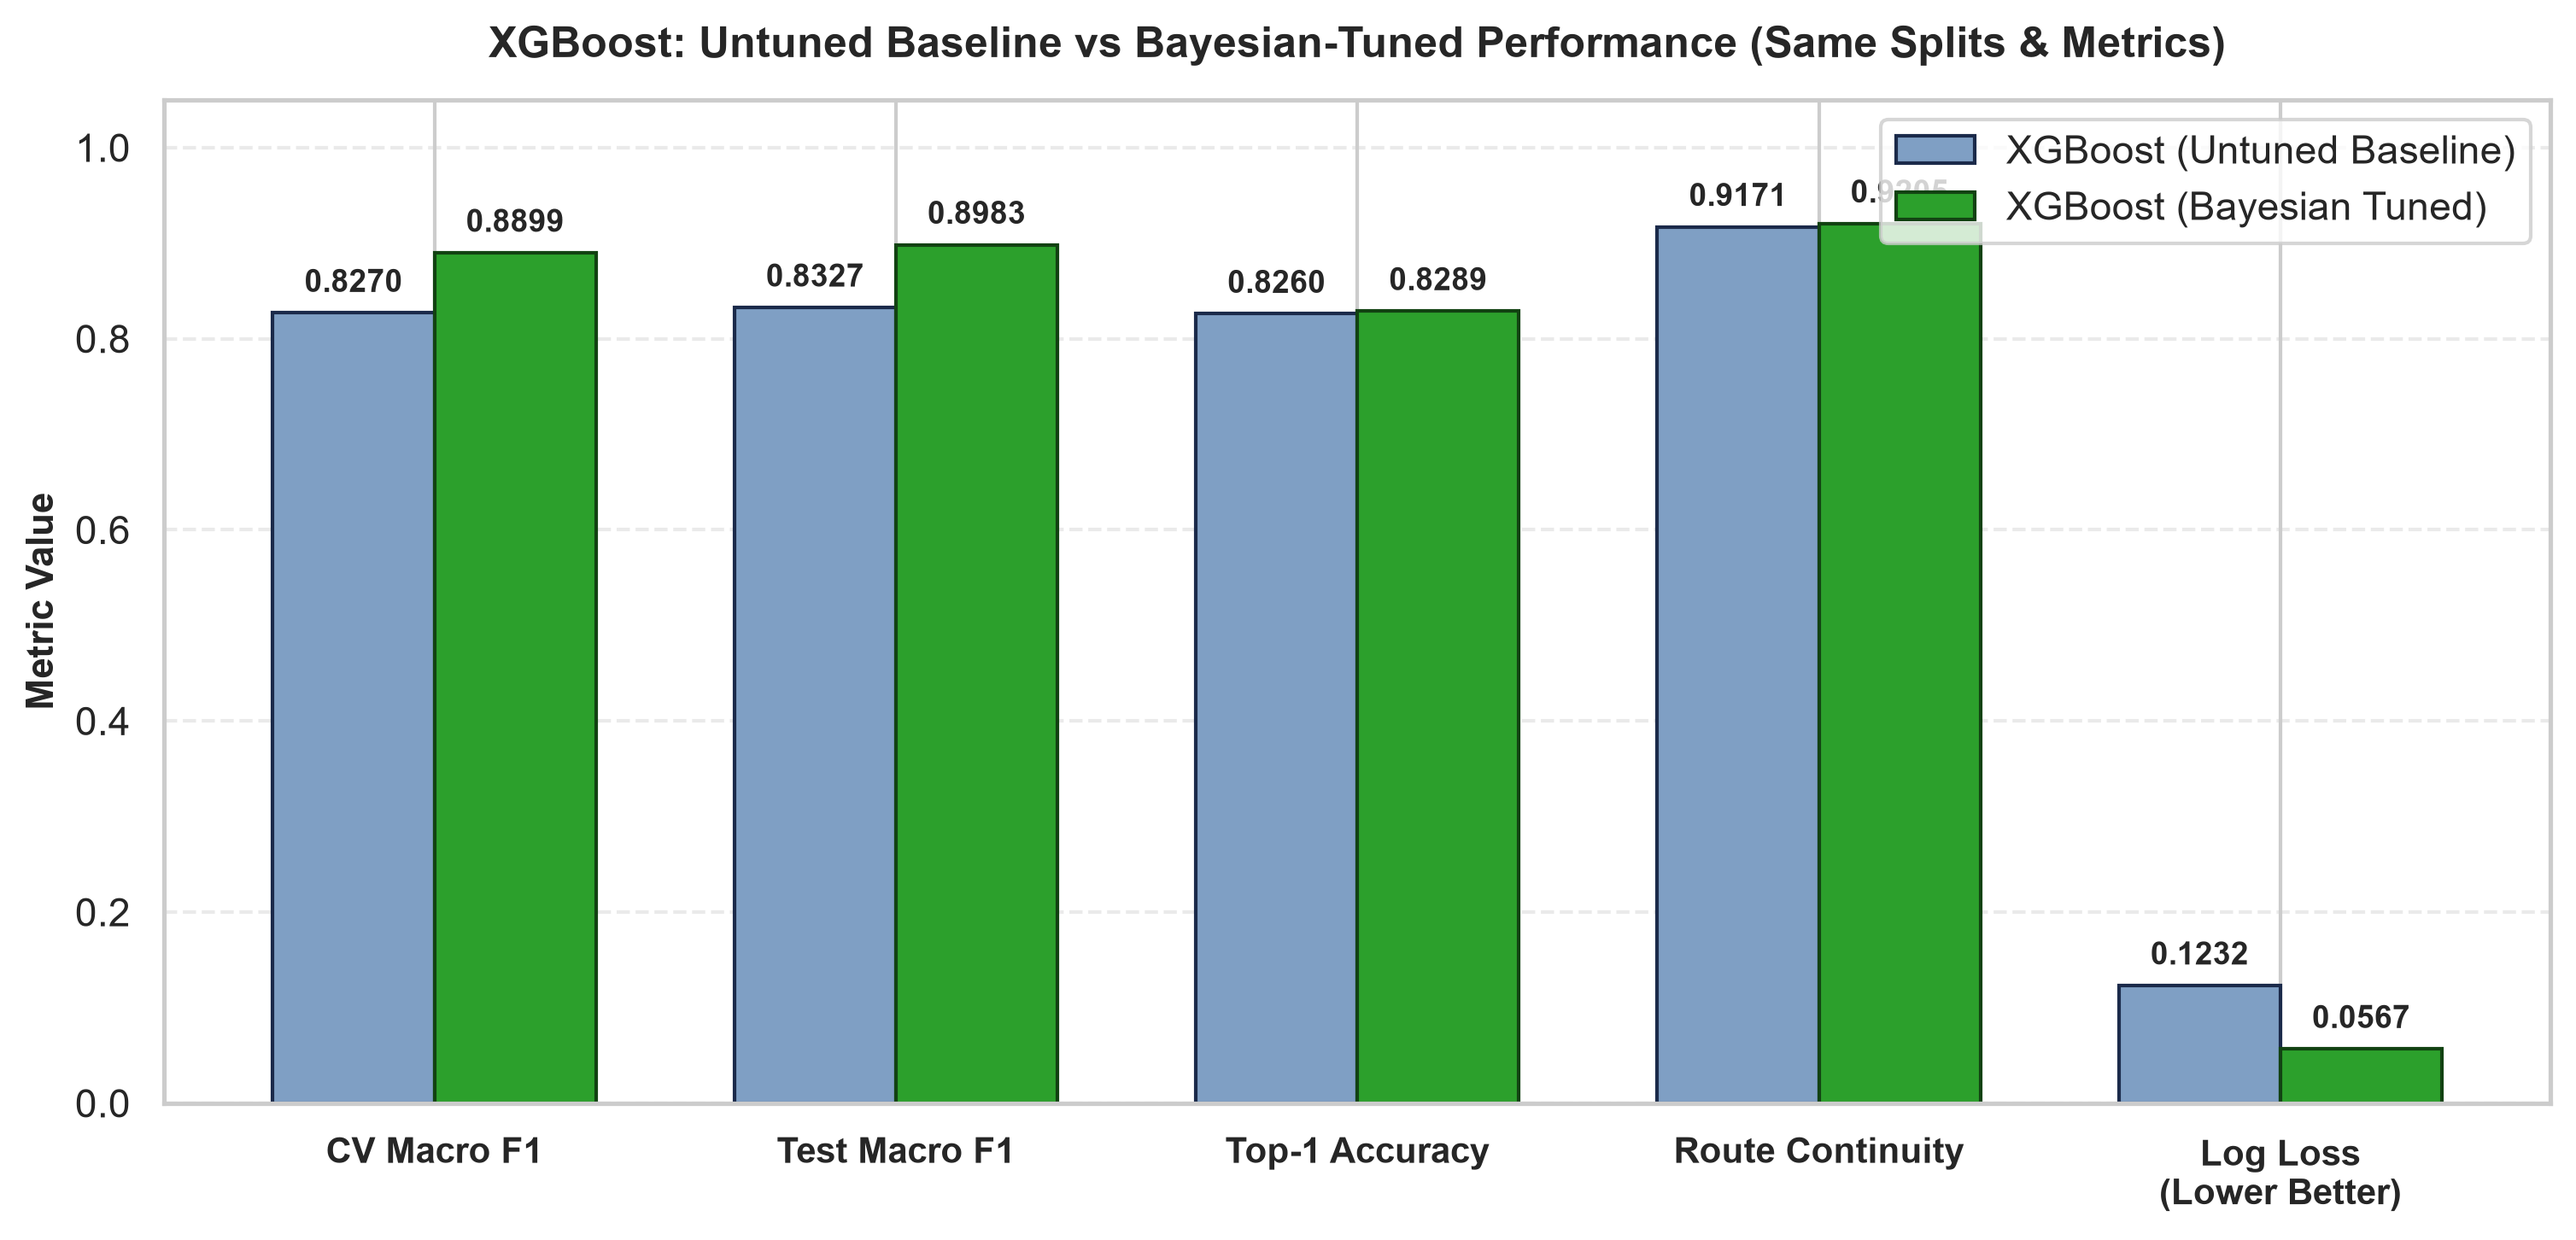
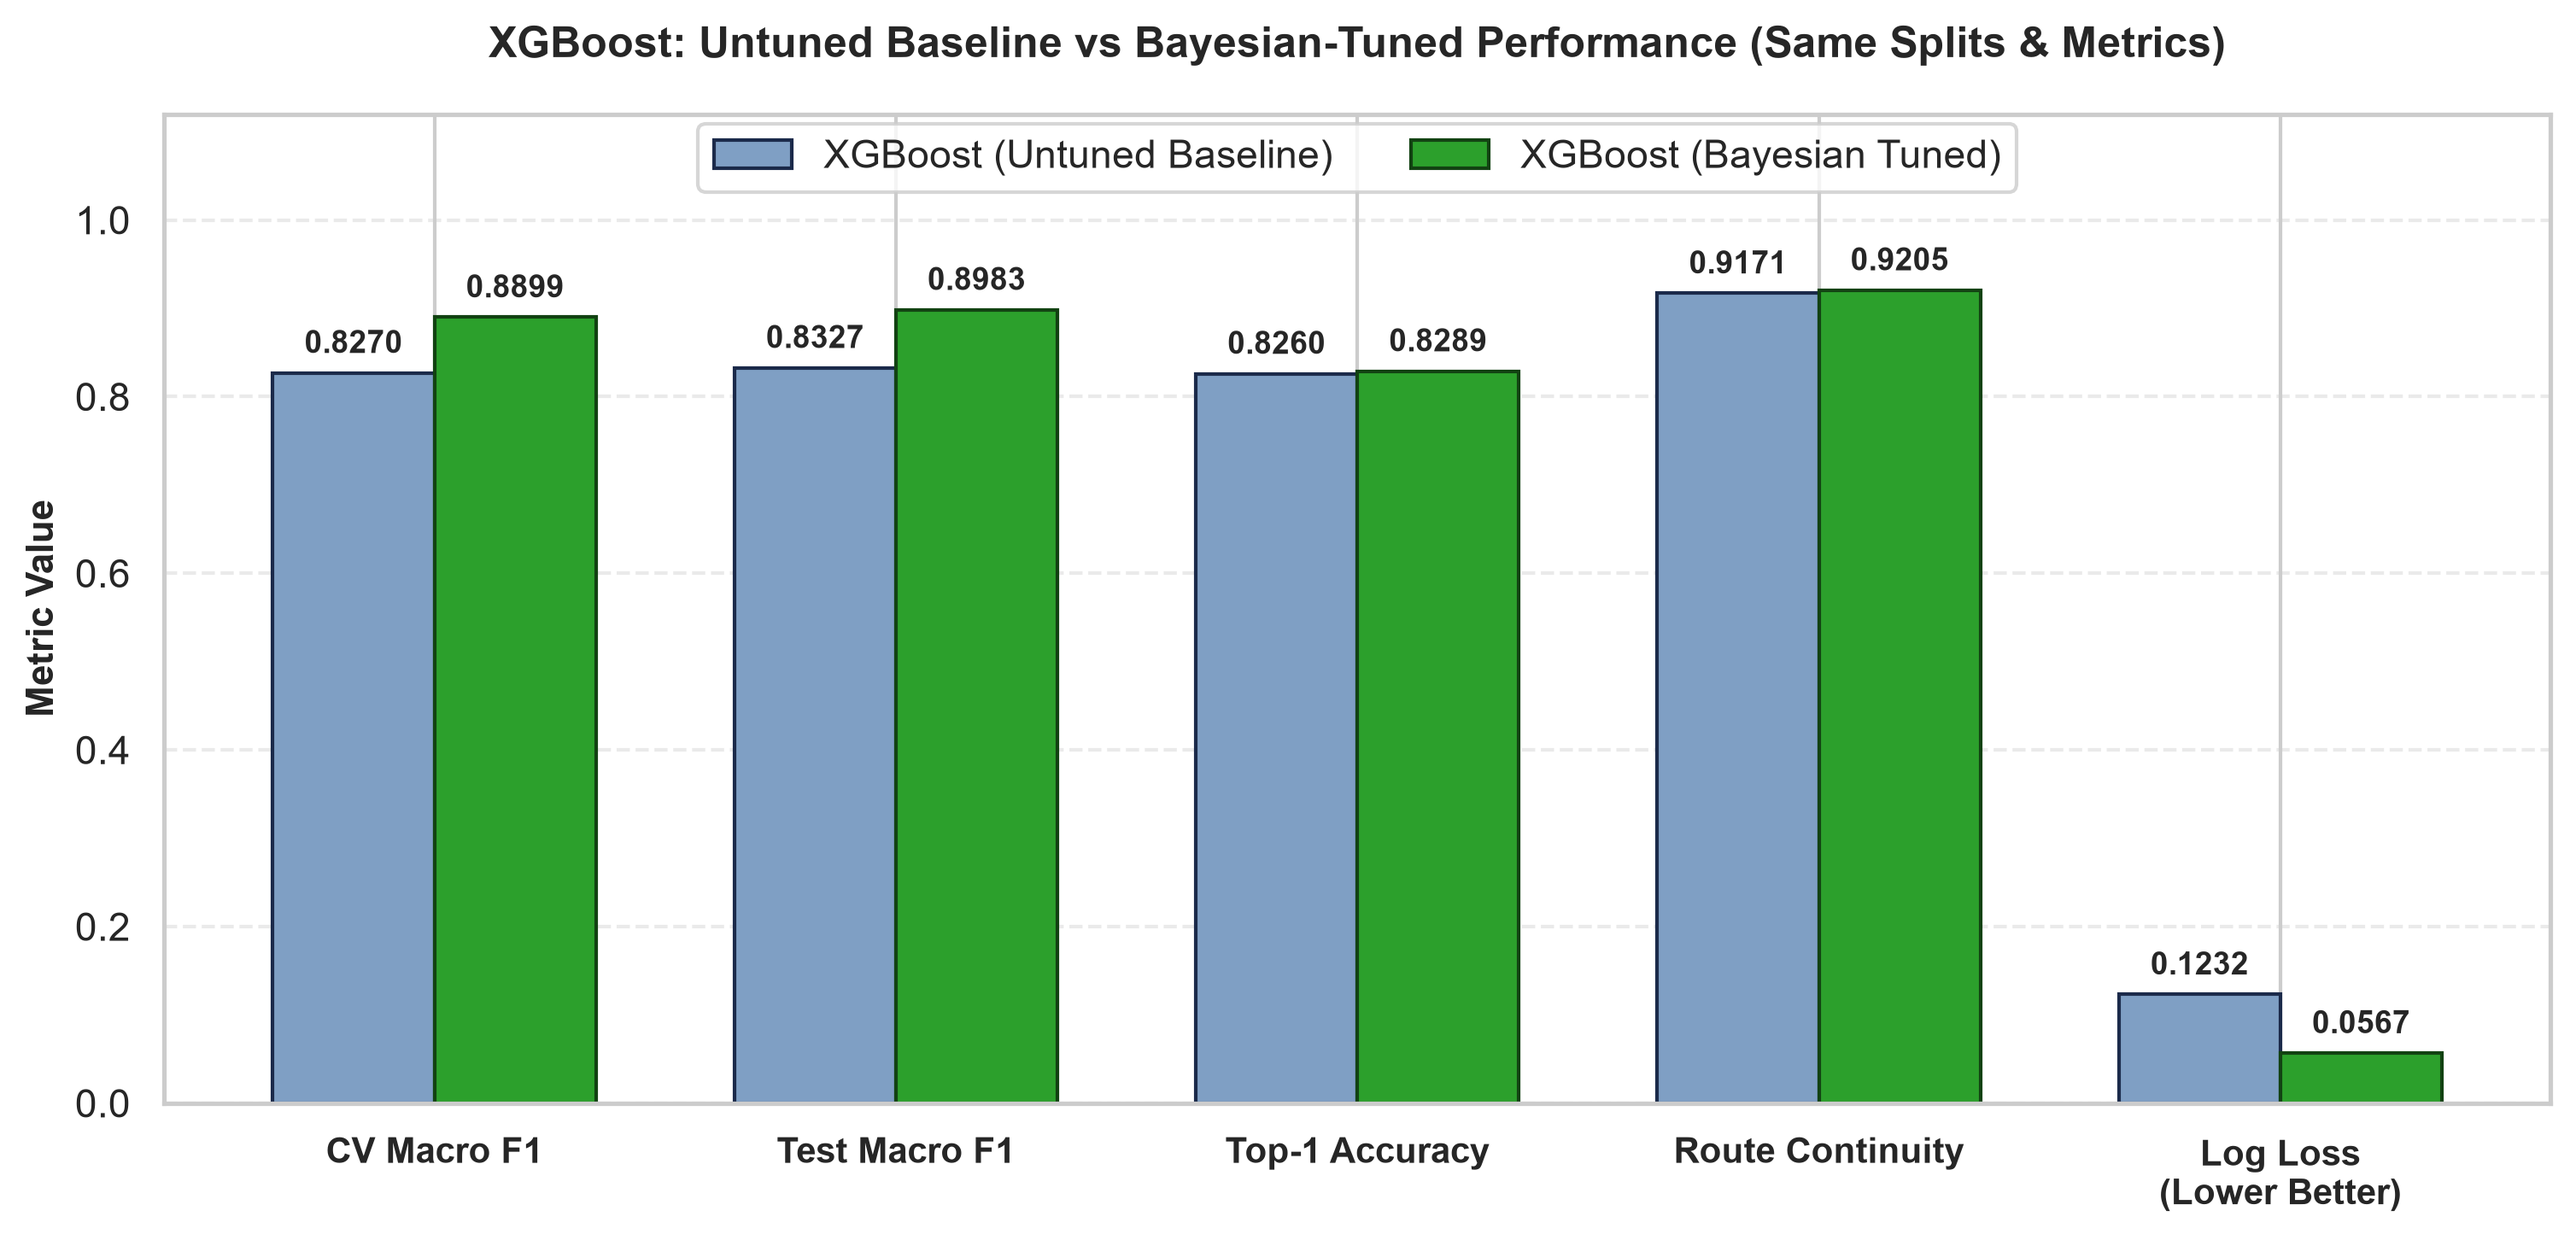
style(plots): fix legend overlap on untuned_vs_tuned_xgboost chart

diff --git a/src/modeling/plot_report_figures.py b/src/modeling/plot_report_figures.py
@@ -306,10 +306,10 @@ def plot_untuned_vs_tuned(m_dir: Path, out_dir: Path) -> Path | None:
 
     ax.set_xticks(x)
     ax.set_xticklabels([lbl for _, lbl in metrics], fontsize=10, fontweight="bold")
-    ax.set_ylim(0.0, 1.05)
+    ax.set_ylim(0.0, 1.12)
     ax.set_ylabel("Metric Value", fontsize=10.5, fontweight="bold")
-    ax.set_title("XGBoost: Untuned Baseline vs Bayesian-Tuned Performance (Same Splits & Metrics)", fontsize=12, fontweight="bold", pad=12)
-    ax.legend(frameon=True, loc="upper right")
+    ax.set_title("XGBoost: Untuned Baseline vs Bayesian-Tuned Performance (Same Splits & Metrics)", fontsize=12, fontweight="bold", pad=16)
+    ax.legend(frameon=True, loc="upper center", ncol=2, bbox_to_anchor=(0.5, 1.01))
     ax.grid(axis="y", linestyle="--", alpha=0.4)
     fig.tight_layout()
     return _save(fig, out_dir / "untuned_vs_tuned_xgboost.png")
